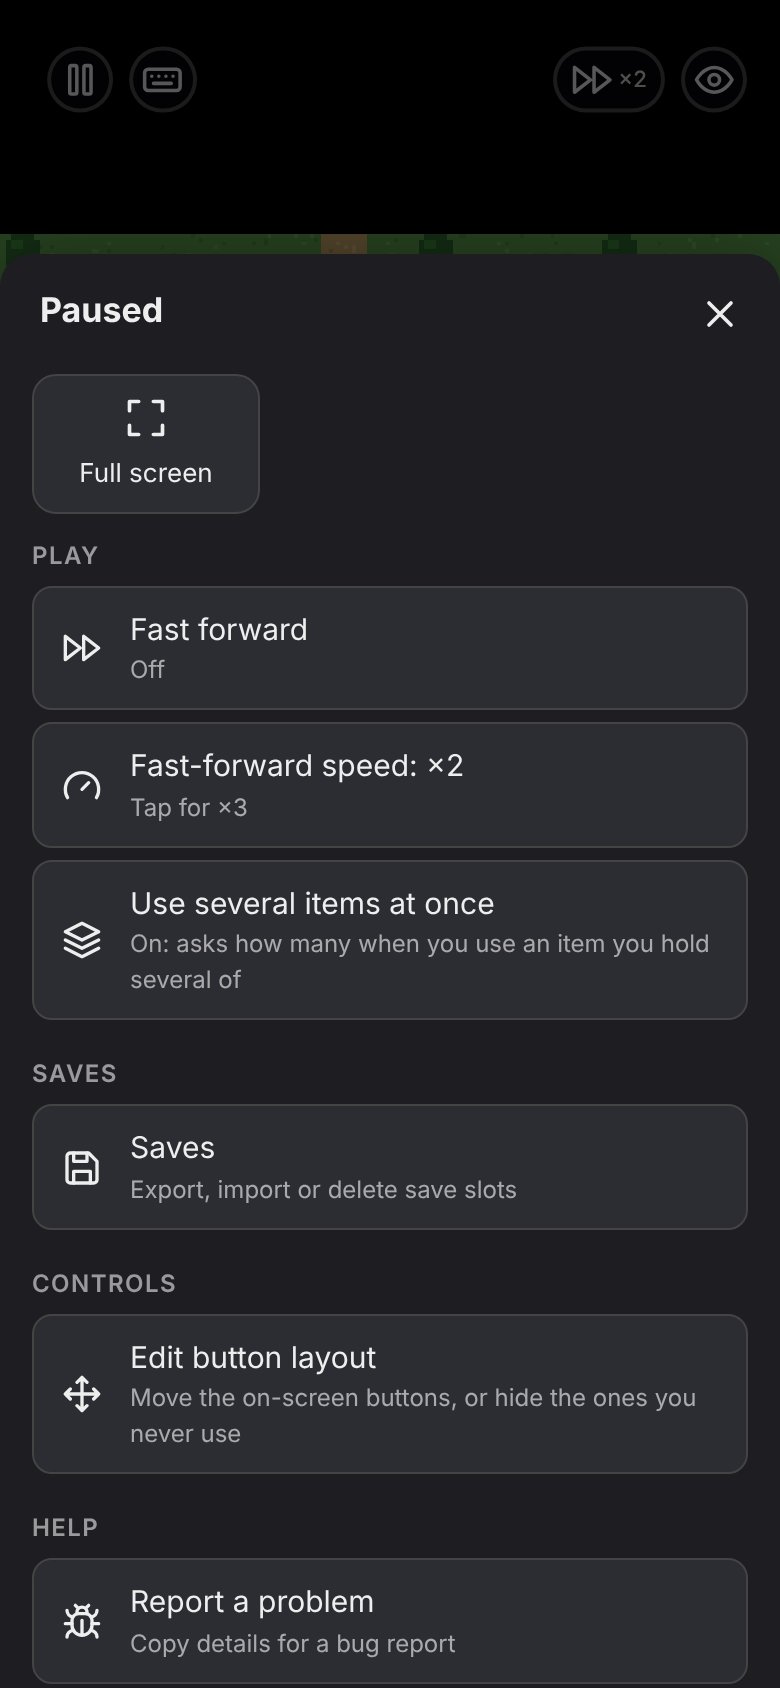
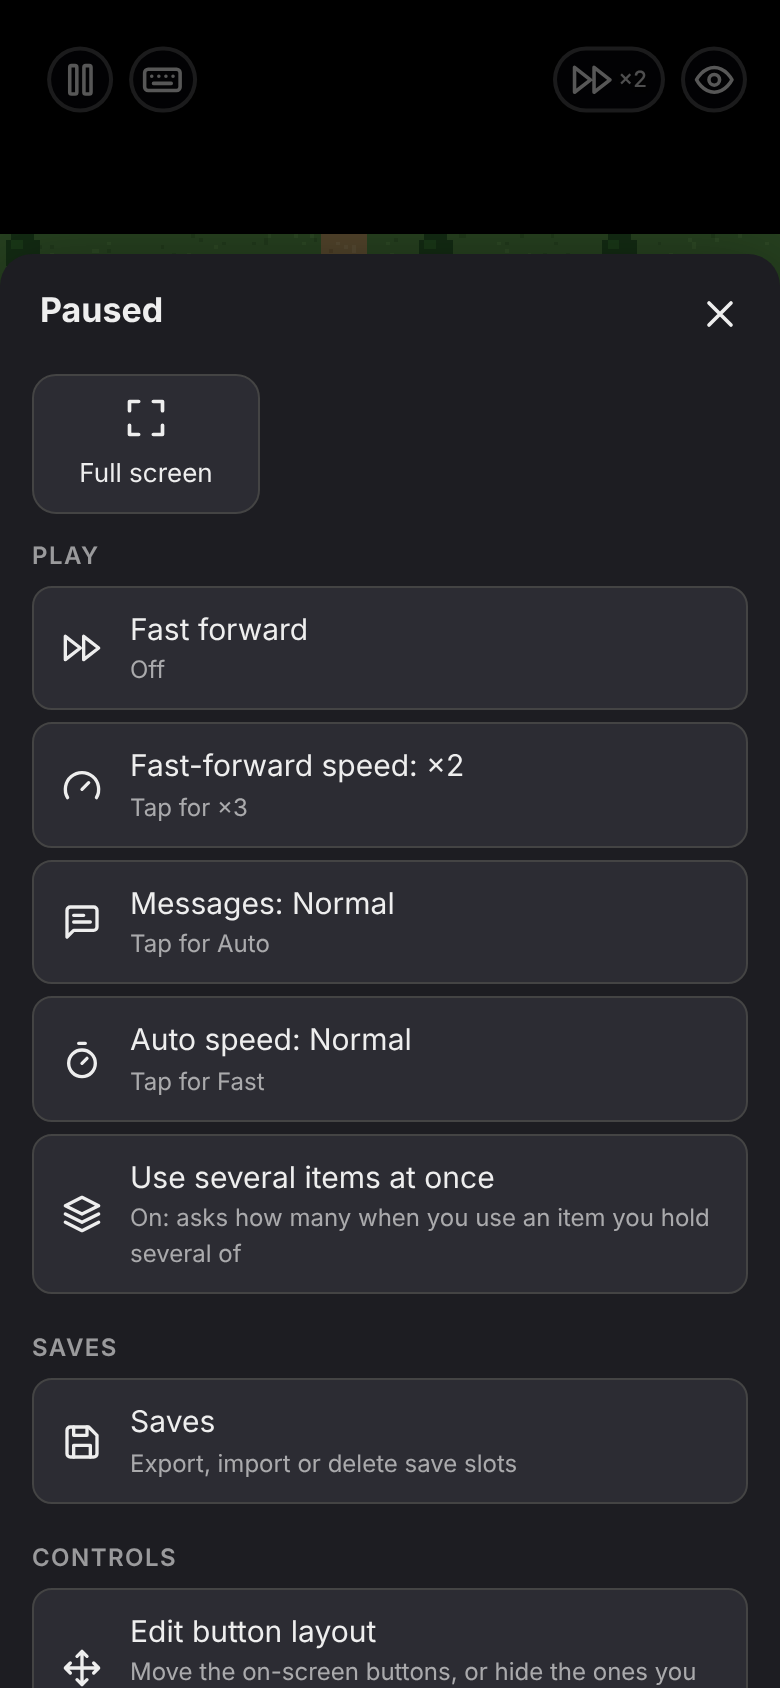
feat(runtime): add message modes: tap to finish, Auto, Skip (#31)

diff --git a/runtime/RWK_Message.js b/runtime/RWK_Message.js
@@ -1,0 +1,128 @@
+//=============================================================================
+// RWK_Message.js - rpgmaker-web-toolkit
+// Required Notice: Copyright 2026 Trương Tuấn Anh (https://github.com/Kokoroou)
+// License: PolyForm Noncommercial 1.0.0 with the Game Creators permission,
+// https://github.com/Kokoroou/rpgmaker-web-toolkit/blob/main/LICENSE
+// Message modes: a tap shows the rest of the page at once, waits included;
+// Auto turns the page after a delay that grows with its length; Skip goes
+// through messages until a choice, a number input or an item to pick.
+//=============================================================================
+/*:
+ * @target MZ MV
+ * @plugindesc [rpgmaker-web-toolkit] Message modes: tap to finish, Auto, Skip. Requires RWK_Core.
+ * @author rpgmaker-web-toolkit
+ */
+
+(() => {
+  "use strict";
+
+  const RWK = window.RWK;
+  if (!RWK || RWK.config.messageMode === false) return;
+
+  const MODES = ["normal", "auto", "skip"];
+  const MODE_NAMES = { normal: "Normal", auto: "Auto", skip: "Skip" };
+  // Auto waits (BASE + PER_CHAR × characters on the page) × the speed's factor, in frames.
+  const AUTO_SPEEDS = { slow: 1.6, normal: 1, fast: 0.6 };
+  const AUTO_NAMES = { slow: "Slow", normal: "Normal", fast: "Fast" };
+  const BASE = 60;
+  const PER_CHAR = 3;
+  const MODE_KEY = "rwk.messageMode." + RWK.config.gameId;
+  const AUTO_KEY = "rwk.autoSpeed." + RWK.config.gameId;
+
+  // Auto is remembered in this browser; Skip always starts off.
+  let mode = RWK.storage.get(MODE_KEY) === "auto" ? "auto" : "normal";
+  let autoSpeed = AUTO_SPEEDS[RWK.storage.get(AUTO_KEY)] ? RWK.storage.get(AUTO_KEY) : "normal";
+  let ctrlHeld = false; // Ctrl skips only while held
+  const skipping = () => mode === "skip" || ctrlHeld;
+
+  function setMode(value, note) {
+    mode = value;
+    if (value !== "skip") RWK.storage.set(MODE_KEY, value);
+    RWK.toast(note || `Messages: ${MODE_NAMES[value]}`, "info", 1500);
+  }
+
+  //---------------------------------------------------------------------------
+  // Window_Message, same names in MZ and MV. Every mode works through
+  // isTriggered (the OK / tap check of the message window only), so choices,
+  // number input and item selection are never answered for the player.
+  //---------------------------------------------------------------------------
+
+  const _newPage = Window_Message.prototype.newPage;
+  Window_Message.prototype.newPage = function (textState) {
+    _newPage.apply(this, arguments);
+    this._rwkPage = { state: textState, start: textState.index };
+  };
+
+  // Characters shown since the page started or the last pause (\! in the text).
+  function pageLength(win) {
+    const page = win._rwkPage;
+    if (!page) return 0;
+    const length = Math.max(0, page.state.index - page.start);
+    page.start = page.state.index;
+    return length;
+  }
+
+  const _update = Window_Message.prototype.update;
+  Window_Message.prototype.update = function () {
+    if (mode === "skip" && this.isAnySubWindowActive()) setMode("normal", "Skip stopped: your turn to choose");
+    // A wait in the text (\. \|) ends on a tap, or at once while skipping.
+    if (this._waitCount > 0 && this._textState && (skipping() || this.isTriggered())) {
+      this._waitCount = 0;
+      this._showFast = true;
+    }
+    if (mode === "auto" && this.pause) {
+      if (!this._rwkAuto) this._rwkAuto = { frames: 0, delay: (BASE + PER_CHAR * pageLength(this)) * AUTO_SPEEDS[autoSpeed] };
+      this._rwkAuto.frames++;
+    } else this._rwkAuto = null;
+    _update.apply(this, arguments);
+  };
+
+  const _isTriggered = Window_Message.prototype.isTriggered;
+  Window_Message.prototype.isTriggered = function () {
+    if (_isTriggered.apply(this, arguments) || skipping()) return true;
+    const auto = this._rwkAuto;
+    return !!(this.pause && auto && auto.frames >= auto.delay);
+  };
+
+  // Scrolling text runs at its fast speed while skipping, unless the event forbids it.
+  const _isFastForward = Window_ScrollText.prototype.isFastForward;
+  Window_ScrollText.prototype.isFastForward = function () {
+    return _isFastForward.apply(this, arguments) || (skipping() && !$gameMessage.scrollNoFast());
+  };
+
+  //---------------------------------------------------------------------------
+  // Controls: the mode and the Auto speed in the ⏸ menu, held Ctrl on a keyboard.
+  //---------------------------------------------------------------------------
+
+  const next = (list, item) => list[(list.indexOf(item) + 1) % list.length];
+  const speeds = Object.keys(AUTO_SPEEDS);
+
+  RWK.tools.add({
+    icon: RWK.icons.message,
+    group: "play",
+    label: () => `Messages: ${MODE_NAMES[mode]}`,
+    detail: () => `Tap for ${MODE_NAMES[next(MODES, mode)]}` + (RWK.controls ? "" : " · hold Ctrl to skip"),
+    keepOpen: true,
+    onSelect: () => setMode(next(MODES, mode)),
+  });
+  RWK.tools.add({
+    icon: RWK.icons.timer,
+    group: "play",
+    label: () => `Auto speed: ${AUTO_NAMES[autoSpeed]}`,
+    detail: () => `Tap for ${AUTO_NAMES[next(speeds, autoSpeed)]}`,
+    keepOpen: true,
+    onSelect: () => {
+      autoSpeed = next(speeds, autoSpeed);
+      RWK.storage.set(AUTO_KEY, autoSpeed);
+    },
+  });
+
+  // Held Ctrl skips, unless the game's plugins use the key for something else.
+  const free = !Input.keyMapper[17] || Input.keyMapper[17] === "control";
+  const releaseCtrl = () => (ctrlHeld = false);
+  window.addEventListener("keydown", (e) => {
+    if (free && e.keyCode === 17 && !RWK.tools.isOpen()) ctrlHeld = true;
+  });
+  window.addEventListener("keyup", (e) => e.keyCode === 17 && releaseCtrl());
+  window.addEventListener("blur", releaseCtrl);
+})();

diff --git a/cli/lib/policy.js b/cli/lib/policy.js
@@ -4,7 +4,7 @@
 //
 //   {
 //     "hosting": "personal" | "shared" | "public" | "none",
-//     "features": { "saveTools": false, "itemBatch": false, "fastForward": false, "sync": false },
+//     "features": { "saveTools": false, "itemBatch": false, "fastForward": false, "messageMode": false, "sync": false },
 //     "message": "Shown to whoever publishes the game",
 //     "contact": "https://example.com/contact"
 //   }
@@ -15,7 +15,7 @@ import path from "node:path";
 export const POLICY_FILE = "rwk-policy.json";
 export const HOSTING_LEVELS = ["none", "personal", "shared", "public"];
 // Features a policy can force off, mapped to how the game config spells them.
-const FEATURE_KEYS = ["saveTools", "itemBatch", "fastForward", "sync"];
+const FEATURE_KEYS = ["saveTools", "itemBatch", "fastForward", "messageMode", "sync"];
 
 // -> null (no policy file) | { hosting, features, message, contact, file, problems }
 export function readPolicy(game) {
@@ -67,6 +67,7 @@ export function applyPolicy(cfg, policy) {
   if (policy.features.saveTools === false) out.saveTools = false;
   if (policy.features.itemBatch === false) out.itemBatch = false;
   if (policy.features.fastForward === false) out.fastForward = false;
+  if (policy.features.messageMode === false) out.messageMode = false;
   if (policy.features.sync === false) out.sync = { ...cfg.sync, enabled: false };
   return out;
 }

diff --git a/test/cli.test.js b/test/cli.test.js
@@ -101,9 +101,10 @@ test("creator policy: parsing, strict fallback, feature locks", () => {
   assert.equal(parsePolicy({}).problems.length, 1);
 
   const cfg = { slug: "g", sync: { enabled: true }, saveTools: true };
-  const locked = applyPolicy(cfg, parsePolicy({ hosting: "personal", features: { saveTools: false, fastForward: false, sync: false } }));
+  const locked = applyPolicy(cfg, parsePolicy({ hosting: "personal", features: { saveTools: false, fastForward: false, messageMode: false, sync: false } }));
   assert.equal(locked.saveTools, false);
   assert.equal(locked.fastForward, false);
+  assert.equal(locked.messageMode, false);
   assert.equal(locked.sync.enabled, false);
   assert.equal(cfg.sync.enabled, true, "the stored config is left alone");
   assert.equal(applyPolicy(cfg, null), cfg);
@@ -240,6 +241,7 @@ test("web build: runtime plugins and the toolkit version for the problem report"
   const out = generatedFiles({ root, engine: "MZ", title: "G" }, { slug: "g", sync: {} });
   assert.ok(out.has("js/plugins/RWK_Report.js"));
   assert.ok(out.has("js/plugins/RWK_Speed.js"));
+  assert.ok(out.has("js/plugins/RWK_Message.js"));
   const js = out.get("js/plugins.js");
   const core = JSON.parse(/\$plugins\.push\((\{"name":"RWK_Core".*\})\);/.exec(js)[1]);
   const pkg = JSON.parse(fs.readFileSync(new URL("../package.json", import.meta.url), "utf8"));

diff --git a/cli/lib/stage.js b/cli/lib/stage.js
@@ -9,7 +9,7 @@ import { TOOLKIT_ROOT } from "./config.js";
 import { mobileOnlyMissing } from "./game.js";
 import { isIndexable } from "./policy.js";
 
-export const RUNTIME_PLUGINS = ["RWK_Core", "RWK_SaveSync", "RWK_MobileControls", "RWK_Speed", "RWK_SaveTools", "RWK_ItemBatch", "RWK_Report"];
+export const RUNTIME_PLUGINS = ["RWK_Core", "RWK_SaveSync", "RWK_MobileControls", "RWK_Speed", "RWK_Message", "RWK_SaveTools", "RWK_ItemBatch", "RWK_Report"];
 
 // Shown in the in-game problem report (RWK_Report).
 const TOOLKIT_VERSION = JSON.parse(fs.readFileSync(path.join(TOOLKIT_ROOT, "package.json"), "utf8")).version;
@@ -90,6 +90,7 @@ export function generatedFiles(game, gameConfig, files = []) {
     saveTools: gameConfig.saveTools !== false,
     itemBatch: gameConfig.itemBatch !== false,
     fastForward: gameConfig.fastForward !== false,
+    messageMode: gameConfig.messageMode !== false,
   };
   if (game.engine === "MV") {
     const missing = mobileOnlyMissing(files);

diff --git a/site/screenshots/simulator.html b/site/screenshots/simulator.html
@@ -76,7 +76,7 @@
     C.prototype = new Proxy({}, { get: (t, k) => (k in t ? t[k] : function () {}) });
     return C;
   };
-  for (const name of ["Game_Temp", "Game_Interpreter", "Scene_Item", "Scene_ItemBase", "Window_Base", "Window_ShopNumber"]) {
+  for (const name of ["Game_Temp", "Game_Interpreter", "Scene_Item", "Scene_ItemBase", "Window_Base", "Window_ShopNumber", "Window_Message", "Window_ScrollText"]) {
     window[name] = stub();
   }
   window.Game_Action = { EFFECT_COMMON_EVENT: 44 };
@@ -134,6 +134,7 @@
 <script src="../../runtime/RWK_SaveSync.js"></script>
 <script src="../../runtime/RWK_MobileControls.js"></script>
 <script src="../../runtime/RWK_Speed.js"></script>
+<script src="../../runtime/RWK_Message.js"></script>
 <script src="../../runtime/RWK_SaveTools.js"></script>
 <script src="../../runtime/RWK_ItemBatch.js"></script>
 <script src="../../runtime/RWK_Report.js"></script>

diff --git a/runtime/RWK_Core.js b/runtime/RWK_Core.js
@@ -298,6 +298,8 @@
     save: svg('<path d="M5 3h11l5 5v11a2 2 0 0 1-2 2H5a2 2 0 0 1-2-2V5a2 2 0 0 1 2-2z"/><path d="M7 3v5h8V3M7 21v-7h10v7"/>'),
     fastForward: svg('<path d="M13 19l9-7-9-7zM2 19l9-7-9-7z"/>'),
     gauge: svg('<path d="M12 14l4-4"/><path d="M3.34 19a10 10 0 1 1 17.32 0"/>'),
+    message: svg('<path d="M21 15a2 2 0 0 1-2 2H7l-4 4V5a2 2 0 0 1 2-2h14a2 2 0 0 1 2 2z"/><path d="M13 8H7M17 12H7"/>'),
+    timer: svg('<path d="M10 2h4M12 14l3-3"/><circle cx="12" cy="14" r="8"/>'),
     items: svg('<path d="M12 2l10 5-10 5L2 7z"/><path d="M2 12l10 5 10-5M2 17l10 5 10-5"/>'),
     bug: svg(
       '<path d="M8 2l1.9 1.9M14.1 3.9L16 2M9 7.1v-1a3 3 0 1 1 6 0v1"/>' +

diff --git a/site/play/messages.md b/site/play/messages.md
@@ -1,0 +1,13 @@
+# Messages: tap to finish, Auto, Skip
+
+| Mode | What it does |
+|---|---|
+| **Normal** | A tap (or OK) shows the rest of the message at once, pauses in the text included. Another tap goes to the next one |
+| **Auto** | Each message turns by itself after a moment; longer messages stay longer. Pick **Slow**, **Normal** or **Fast** with ⏸ → **Auto speed** |
+| **Skip** | Goes through messages and scrolling text as fast as the game allows |
+
+Change the mode with ⏸ → **Messages** (each tap picks the next one). On a PC, hold <kbd>Ctrl</kbd> to skip only while held.
+
+Auto and Skip never answer for you: Skip stops by itself at a choice, a number to enter or an item to pick, and Auto waits there until you choose. Auto and the Auto speed are remembered in this browser; Skip starts off each time.
+
+Ctrl does nothing when one of the game's plugins already uses it. Some sites have message modes turned off by the person who set up the game or by the game's creator.

diff --git a/site/play/index.md b/site/play/index.md
@@ -36,7 +36,7 @@ Or tap ⏸ → **Full screen** in the game. It also turns a landscape game sidew
 | Phone or tablet | The on-screen gamepad: [Touch controls](/play/controls) |
 | PC | Keyboard or a controller, as in the desktop game |
 | ⏩ | [Fast forward](/play/speed) ×2 / ×3 / ×4 |
-| ⏸ Menu | Full screen, [move buttons](/play/controls#move-or-hide-buttons), [manage save files](/play/save-files), [use several items at once](/play/items), [report a problem](#report-a-problem) |
+| ⏸ Menu | Full screen, [message modes](/play/messages) (Auto, Skip), [move buttons](/play/controls#move-or-hide-buttons), [manage save files](/play/save-files), [use several items at once](/play/items), [report a problem](#report-a-problem) |
 
 The game pauses while the ⏸ menu is open, sound included; ✕, Esc or a tap outside it resumes. On a PC, ⏸ is a faint button in the top-left corner, or press **F1**. Options the person who set up the game turned off are missing.
 

diff --git a/site/reference/how-it-works.md b/site/reference/how-it-works.md
@@ -7,6 +7,7 @@ run.ps1 ─► cli/            Node CLI: analyzes the game, builds a temporary w
              RWK_SaveSync        save sync (MZ: localforage, MV: localStorage)
              RWK_MobileControls  on-screen buttons, driven through Input._currentState
              RWK_Speed           fast forward: the scene updates 2–4 times per frame
+             RWK_Message         message modes: tap to finish, Auto, Skip (Window_Message)
              RWK_SaveTools       save export / import / delete (desktop save file format)
              RWK_ItemBatch       use several items at once (MZ / MV adapter for the common event queue)
              RWK_Report          problem report: latest errors, audio state, files that failed to load

diff --git a/site/creators/policy.md b/site/creators/policy.md
@@ -35,6 +35,7 @@ Set a feature to `false` to turn it off in every web copy. The player cannot tur
 | `saveTools` | 💾 Saves in the ⏸ menu: exporting, importing and deleting save files |
 | `itemBatch` | Using several items at once from the item menu |
 | `fastForward` | [Fast forward](/play/speed), e.g. for a game built around timing |
+| `messageMode` | [Message modes](/play/messages): Auto, Skip, and a tap ending pauses in the text |
 | `sync` | Cloud save sync: each browser keeps its own saves |
 
 Keys the toolkit does not know yet are ignored, so you can already list features from later versions.

diff --git a/site/setup/configuration.md b/site/setup/configuration.md
@@ -17,6 +17,7 @@ A JSON mistake reopens Notepad. `slug` and `fingerprint` cannot be changed. Ever
 | Remove ⏸ → Saves | `"saveTools": false` |
 | Turn off using several items at once | `"itemBatch": false` |
 | Turn off fast forward | `"fastForward": false` |
+| Turn off message Auto and Skip | `"messageMode": false` |
 | Turn cloud saves off (each browser keeps its own) | `"sync": { "enabled": false }` |
 | Leave files out | `"exclude": ["data-tw/**", "img/pictures/unused_*", "*.txt"]` |
 | Publish a folder the first deploy skipped | `"include": ["live2d", "extra.json"]` |

diff --git a/site/reference/config.md b/site/reference/config.md
@@ -18,6 +18,7 @@ Every key of a game's settings, as [`edit-config`](/setup/configuration) shows t
 | `saveTools` | `false` removes ⏸ → Saves | Yes, unless the creator's [policy](/creators/policy) turns it off |
 | `itemBatch` | `false` turns off using several items at once | Same |
 | `fastForward` | `false` turns off [fast forward](/play/speed) | Same |
+| `messageMode` | `false` turns off the [message modes](/play/messages) (Auto, Skip) | Same |
 | `savesImportedAt` | When desktop saves were last uploaded | No need |
 
 ::: warning Changing `auth`
